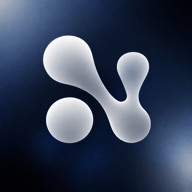
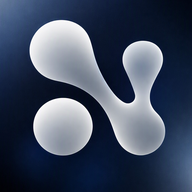
fix: 放大 iOS PWA 图标主体

diff --git a/test/brand-theme-assets.test.js b/test/brand-theme-assets.test.js
@@ -32,15 +32,15 @@ test('网站、启动页与主题切换统一使用同一套新版品牌图标',
   assert.doesNotMatch(index, /brand-light\.svg|brand-dark\.svg/)
   assert.match(index, /id="app-favicon"/)
   assert.doesNotMatch(index, /\.svg/)
-  assert.match(index, /href="\/favicon-48\.png\?v=6"/)
-  assert.match(index, /rel="apple-touch-icon"[^>]*href="\/apple-touch-icon-v6\.png"/)
-  assert.match(index, /href="\/manifest\.json\?v=6"/)
-  assert.match(index, /src="\/app-icon-192\.png\?v=6"/)
-  assert.match(themeStore, /favicon-48\.png\?v=6/)
+  assert.match(index, /href="\/favicon-48\.png\?v=7"/)
+  assert.match(index, /rel="apple-touch-icon"[^>]*href="\/apple-touch-icon-v7\.png"/)
+  assert.match(index, /href="\/manifest\.json\?v=7"/)
+  assert.match(index, /src="\/app-icon-192\.png\?v=7"/)
+  assert.match(themeStore, /favicon-48\.png\?v=7/)
   assert.doesNotMatch(themeStore, /brand-light\.svg|brand-dark\.svg/)
-  assert.match(brandMark, /src="\/app-icon-192\.png\?v=6"/)
+  assert.match(brandMark, /src="\/app-icon-192\.png\?v=7"/)
   assert.doesNotMatch(brandMark, /brand-light\.svg|brand-dark\.svg/)
-  assert.deepEqual(pngSize('public/apple-touch-icon-v6.png'), {
+  assert.deepEqual(pngSize('public/apple-touch-icon-v7.png'), {
     width: 180,
     height: 180,
     hasAlpha: false,
@@ -80,10 +80,10 @@ test('PWA和网站图标由用户提供的同一位图母版生成', () => {
     hasAlpha: false,
   })
   assert.ok(manifest.icons.some((icon) =>
-    icon.src === '/app-icon-192.png?v=6' && icon.purpose === 'any'
+    icon.src === '/app-icon-192.png?v=7' && icon.purpose === 'any'
   ))
   assert.ok(manifest.icons.some((icon) =>
-    icon.src === '/app-icon-maskable-512.png?v=6'
+    icon.src === '/app-icon-maskable-512.png?v=7'
       && icon.purpose === 'maskable'
   ))
   assert.ok(manifest.icons.every((icon) => icon.type === 'image/png'))
@@ -107,6 +107,7 @@ test('受保护域名允许系统在未登录时读取PWA元数据和图标', ()
     '/apple-touch-icon.png',
     '/apple-touch-icon-v5.png',
     '/apple-touch-icon-v6.png',
+    '/apple-touch-icon-v7.png',
     '/app-icon-192.png',
     '/app-icon-512.png',
     '/app-icon-maskable-512.png',

diff --git a/index.html b/index.html
@@ -3,8 +3,8 @@
   <head>
     <meta charset="UTF-8" />
     <meta name="viewport" content="width=device-width, initial-scale=1.0, viewport-fit=cover" />
-    <link id="app-favicon" rel="icon" type="image/png" sizes="48x48" href="/favicon-48.png?v=6" />
-    <link rel="manifest" href="/manifest.json?v=6" />
+    <link id="app-favicon" rel="icon" type="image/png" sizes="48x48" href="/favicon-48.png?v=7" />
+    <link rel="manifest" href="/manifest.json?v=7" />
     <script>
       try {
         document.documentElement.dataset.theme =
@@ -13,8 +13,8 @@
     </script>
     <link rel="stylesheet" href="/src/styles/boot.css" />
     <!-- iOS 读取独立无透明 PNG；版本化文件名规避主屏幕图标缓存。 -->
-    <link rel="apple-touch-icon" sizes="180x180" href="/apple-touch-icon-v6.png" />
-    <link rel="apple-touch-icon-precomposed" sizes="180x180" href="/apple-touch-icon-v6.png" />
+    <link rel="apple-touch-icon" sizes="180x180" href="/apple-touch-icon-v7.png" />
+    <link rel="apple-touch-icon-precomposed" sizes="180x180" href="/apple-touch-icon-v7.png" />
     <meta name="mobile-web-app-capable" content="yes" />
     <meta name="apple-mobile-web-app-capable" content="yes" />
     <meta name="apple-mobile-web-app-status-bar-style" content="black-translucent" />
@@ -28,7 +28,7 @@
   <body>
     <div id="app-splash" role="status" aria-live="polite">
       <span class="sp-logo" aria-hidden="true">
-        <img src="/app-icon-192.png?v=6" alt="" width="58" height="58" />
+        <img src="/app-icon-192.png?v=7" alt="" width="58" height="58" />
       </span>
       <div class="sp-name">短线操盘台</div>
       <div class="sp-sub">正在载入操盘台…</div>

diff --git a/public/sw.js b/public/sw.js
@@ -13,8 +13,8 @@ self.addEventListener('push', (event) => {
   const title = data.title || '⚡ 盯盘预警';
   const options = {
     body: data.body || '',
-    icon: data.icon || '/app-icon-192.png?v=6',
-    badge: '/app-icon-192.png?v=6',
+    icon: data.icon || '/app-icon-192.png?v=7',
+    badge: '/app-icon-192.png?v=7',
     tag: data.tag || ('alert-' + Date.now()),
     renotify: true,
     data: { url: data.url || '/', code: data.code || '' },

diff --git a/src/alertStore.js b/src/alertStore.js
@@ -232,7 +232,7 @@ function notify(title, body) {
   // 浏览器系统通知
   try {
     if (typeof Notification !== 'undefined' && Notification.permission === 'granted') {
-      new Notification(title, { body, icon: '/app-icon-192.png?v=6', tag: 'alert-' + Date.now() })
+      new Notification(title, { body, icon: '/app-icon-192.png?v=7', tag: 'alert-' + Date.now() })
     }
   } catch { /* ignore */ }
   beep()

diff --git a/src/themeStore.js b/src/themeStore.js
@@ -10,7 +10,7 @@ function apply() {
     document.documentElement.setAttribute('data-theme', theme)
     const favicon = document.getElementById('app-favicon')
     if (favicon) {
-      favicon.setAttribute('href', '/favicon-48.png?v=6')
+      favicon.setAttribute('href', '/favicon-48.png?v=7')
     }
   } catch { /* ignore */ }
 }

diff --git a/public/site-access.html b/public/site-access.html
@@ -153,7 +153,7 @@
   <body>
     <main>
       <div class="brand">
-        <img src="/app-icon-192.png?v=6" width="40" height="40" alt="" />
+        <img src="/app-icon-192.png?v=7" width="40" height="40" alt="" />
         <strong>短线操盘台</strong>
       </div>
       <p class="eyebrow">PRIVATE ACCESS</p>

diff --git a/server.js b/server.js
@@ -277,6 +277,7 @@ function serveStatic(_req, res, pathname) {
   } else if (
     rel.startsWith('app-icon-')
     || rel === 'apple-touch-icon-v2.png'
+    || rel === 'apple-touch-icon-v7.png'
     || rel.startsWith('favicon-')
   ) {
     res.setHeader('Cache-Control', 'public, max-age=31536000, immutable');

diff --git a/api/_site_access.js b/api/_site_access.js
@@ -18,6 +18,7 @@ const PUBLIC_SITE_ASSETS = new Set([
   '/apple-touch-icon.png',
   '/apple-touch-icon-v5.png',
   '/apple-touch-icon-v6.png',
+  '/apple-touch-icon-v7.png',
   '/app-icon-source.webp',
   '/app-icon-192.png',
   '/app-icon-512.png',

diff --git a/src/components/BrandMark.jsx b/src/components/BrandMark.jsx
@@ -12,7 +12,7 @@ export default function BrandMark({
     >
       <img
         className="brand-mark-image"
-        src="/app-icon-192.png?v=6"
+        src="/app-icon-192.png?v=7"
         alt=""
       />
     </span>
